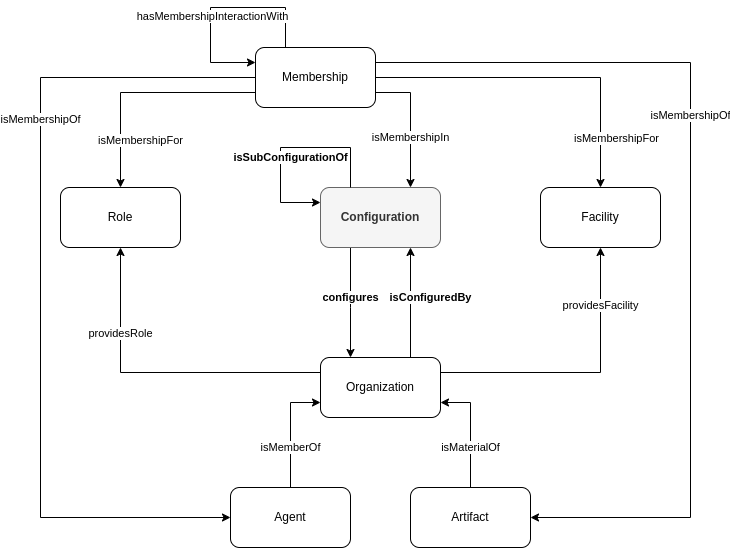
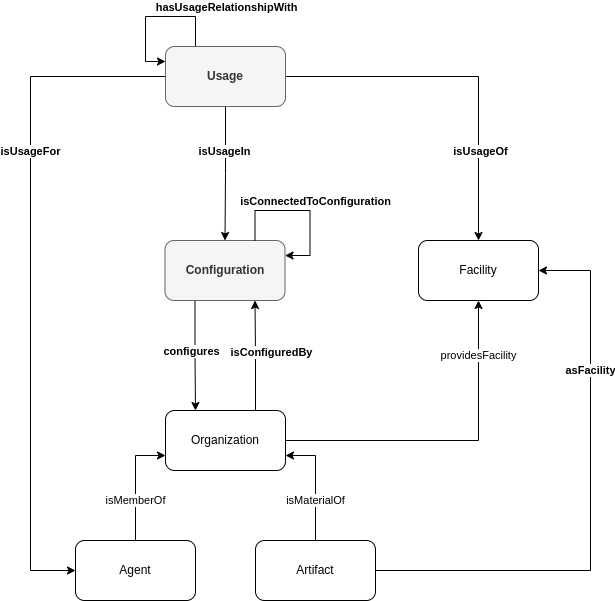
Update terms and README

diff --git a/domains/logistics/configure-organization/README.md b/domains/logistics/configure-organization/README.md
@@ -1,22 +1,34 @@
-# Configuring the Physical Context within an Organization
+# Configuring an Organization
 
 ## Description
 
-In the FL Logistics organization, activities take place on various depots. Those depots are located in France and in Switzerland. Complementing the job positions and departments that structure the FL Logistics organization, dedicated configurations on each of these depots enables the coordination and regulation of the activities of the organization members and materials. These configurations, in relation to the physical places where the activities of the organization take place, are complementary to the social structure of FL Logistics.
+In the FL Logistics organization, activities take place on various depots located in France and in Switzerland. In all depots, there are a _receiving_ area, a _storage_ area, and a _picking_ area.
 
-In France, the activities of the FL Logistics are organized around three physical workspaces: Lyon Depot, Saint-Etienne Depot and Transport Zone between both depots.
+In each _receiving_ area, there are available standard material handling equipment like forklifts and pallet jacks as well as barcode readers to gain maximum efficiency.
 
-In each configuration, agents will undertake activities according to their *memberships to* that *configuration* and to the artefacts through their memberships as *facilities* in that *configuration*.
+
+Complementing the job positions and departments that structure the FL Logistics, dedicated configurations arrange these physical organization workplaces where activities can be undertaken. 
+
+Artifacts situated in these 
+
+The usage of these configurations identifies the 
+
+usages enable identifying the possible uses of artifacts situated in these depots. These configurations, e.g., arrangement of the physical workplaces where activities of the organization can take place, are complementary to the social structure and activity coordination of the FL Logistics.
+
+In France, the FL Logistics' activities can take place in three physical workplaces: Lyon Depot, Saint-Etienne Depot and Transport Zone between both depots.
+
+In each configuration, agents can undertake their activities using the available facilities attached to artifacts.
 
 Two configurations are considered:
-* *picking* configuration with a *collector* role and a *picking area* facility
-* *receiving* configuration with a *deliverer* role and an *receiving area* facility
+
+* *picking* configuration with a *collector* usage and a *picking area* facility
+* *receiving* configuration with a *deliverer* usage and an *receiving area* facility
 
 The agents acting in the *lyon depot*, *saint-etienne depot* workspaces have to consider both depots according to those two configurations. In the Transport Zone the agents don't have to consider any configuration to further coordinate and regulate their activities.
 
-The agents having a membership in the *transporter* group use these configurations in the *lyon depot* and *saint-etienne depot* to help their coordination: when getting a membership in the *delivering* (resp. *picking*) configuration through the *deliverer* role (resp. *collector* role).
+The agents having a membership in the *transporter* group use these configurations in the *lyon depot* and *saint-etienne depot* to help their coordination: when committing to a usage in the *delivering* (resp. *picking*) configuration through the *deliverer* usage (resp. *collector* usage).
 
-In the same approach, the *delivering machine* and *picking machine* artifacts materials of FL logistics organization, operating in these workspaces, will be accessed through dedicated facilities of these configurations, providing selected set of actions to the agents: the *delivering machine* artifact is considered as an *receiving* area facility in the *receiving* configuration; the *picking machine* artifact is considered as an *picking area* facility in the *picking* configuration.
+In the same approach, the *delivering machine* and *picking machine* artifacts materials of FL logistics organization, operating in these workspaces, will be accessed through dedicated facilities of these configurations, providing selected set of actions to the agents: the *delivering machine* artifact is considered as an *receiving area* facility in the *receiving* configuration; the *picking machine* artifact is considered as an *picking area* facility in the *picking* configuration.
 
 Activities will take place according to the configurations that lead to picking, unpicking and transporting actions with different artifacts. Goods are collected using different facilities and are delivered with other facilities according to the plan elaborated by the agent having a membership of planner in the corresponding group.
 
@@ -24,24 +36,28 @@ Activities will take place according to the configurations that lead to picking,
 
 | ID | Question in Natural Language | Example |
 |----|------------------------------|---------|
-| q1 | What are the memberships that an agent of FL Logistics can have in configuration X? | `ex:SL_Collector in ex:SL_Picking, ex:SL_Deliverer in ex:SL_Receiving` |
-| q2 | What are the possible configurations of FL Logistics? | `ex:SL_Picking, ex:SL_Receiving` |
-| q3 | What are the facilities that artifacts can have in configuration X? | `ex:SL_PickingArea in ex:SL_Picking`, `ex:SL_ReceivingArea in ex:SL_Receiving` |
-| q4 | What are the agents that have a membership in the configuration X? | |
+| q1 | What are the usage that an agent A of organization X can have in configuration Y? | |
+| q2 | What are the possible configurations of organization X?                           | |
+| q3 | What are the facilities that artifacts X can have in configuration Y?             | |
+| q4 | What are the agents that are part of the usage Z in the configuration X?          | |
 
 ## Glossary
 
 ![image](configure-organization.png)
 
-* **Configuration**: A Configuration denotes the distributed articulation of facilities (i.e., Artifacts) and roles (i.e., Agents) enacted from the Configuration definition. Configurations may have interaction relations between them constraining the way agents can access to them (e.g. compatibility, i.e. being part of both configurations, ...).
-* **Membership**: see [Structure the Social Context within an Organization](https://github.com/HyperAgents/hmas/blob/master/domains/logistics/structure-organization/README.md) scenario.
+* **Usage**: A Usage identifies the Facilities associated to Artifacts that Agents can use in a Configuration.
+* **Usage Incompatibility**: A relation that imposes a constraint in which the same Agent cannot be part of two Usages simultaneously.
+* **Usage Constraint**: A relation that refers to a constrain imposed on the Usages, e.g., limiting the number of Agents participating in that Usage.
+* **Configuration**: A Configuration is an arrangement of elements (physical or logical) of an Organization.
+* **Configuration Connectedness**: A relation that refers how two Configurations are linked.
 * **Facility**: see [Create an Organization](https://github.com/HyperAgents/ns.hyperagents.org/blob/master/domains/logistics/create-organization/README.md) scenario.
-* **Role**: see [Create an Organization](https://github.com/HyperAgents/ns.hyperagents.org/blob/master/domains/logistics/create-organization/README.md) scenario.
 * **Organization**: see [Discover Organizations, their Members and Materials in Hypermedia Environments](https://github.com/HyperAgents/hmas/blob/master/domains/manufacturing-environments/discover-organization/README.md) scenario.
 * **Agent**: see [Discover Organizations, their Members and Materials in Hypermedia Environments](https://github.com/HyperAgents/hmas/blob/master/domains/manufacturing-environments/discover-organization/README.md) scenario.
 * **Artifact**: see [Discover Organizations, their Members and Materials in Hypermedia Environments](https://github.com/HyperAgents/hmas/blob/master/domains/manufacturing-environments/discover-organization/README.md) scenario.
 
 ## Recommendations
 
-* When spatial context is expressed as a condition, the condition is tested against the current situation and, if satisfied, activates the policy. The agent didn't make an explicit and intentional decision to realize the satisfaction of the context condition.
-* When spatial context is expressed as a configuration with memberships, the agent makes an explicit move or decision to acquire that specific membership. We are able to capture the explicit decision or commitment of the agent w.r.t. this membership.
+* https://www.jstor.org/stable/pdf/2563428.pdf?refreqid=fastly-default%3A1bf3cc6b0c876a22b471ab9a58a68da2&ab\_segments=&origin=&initiator=&acceptTC=1
+* In the OntoZoning ontology (https://pdf.sciencedirectassets.com/312220/1-s2.0-S2226585623X0003X/1-s2.0-S2226585623000067/main.pdf?X-Amz-Security-Token=IQoJb3JpZ2luX2VjEMn%2F%2F%2F%2F%2F%2F%2F%2F%2F%2FwEaCXVzLWVhc3QtMSJHMEUCIQD%2F0cOO8Ci1dle6bP1t%2FMdy4%2Bpe5poMgoopD9KLVOKZlgIgQN0XVkKb9wvSk14qb4EVsRb6ROOHGNHBgJGJqTKgfu4qswUIMhAFGgwwNTkwMDM1NDY4NjUiDIIWg3I77gLJsk%2F21SqQBa4FtRSZAPGt0FoJmh8yQAC7Qb9d3AzUs3YJLPgDtScksnYLFY5UQgZzD9OroSCSj7gnc2Ft0OvIXJmuwOmAyd9thOFTA9weqJICqwSzsZSd%2Fc6LxGMU655JstjmBKscftYvFd8nJx7sXgoEJ5wzjih3J3oYapBlVIGFeUB9%2F2N5zazM%2FDpS5jourS%2BNViRobzfF5kLEiQ2gTZeovELSb8gyGjIWk%2Bw0jtr5MGiUh6EZp8RsMFuXDpLGAhLK7oRljl7ALkORfG4KjFjY5QLcoYyA42rLM75sGhD4znEBmUTvdr7%2BWdr16WUZYFmumV2L97oo8u5kvVw9FfKOjfcSqAC7TVsP20%2FshubhiH1pLyEkM4gaWXrax1OF1LiThKVUYUuV5nFDG0DUedPZHtuWxhj%2F%2FQe2tT066GJXUPcVesocDdXPwlOaHmRrxyPIDU1bqwSnPsYqIifxPspvZfRQJYZjNfcQxURY03jK50GkE8ymPiVSq%2BbRvugLZ5qtGqVKpSWaZvMuDaNafK2eIK%2FC5EVEnLAYUxllglOiCHiDKxX4Y175vGSJ5jDG9Wfy696ntm082iXtFpi4Nby%2FJ3x9kzIhbq9sIGCot7y8HtiaeuG5ay0UTmgeOuCHYOC2sZRD%2BWfJGQWlZaVz789UWLnzzfckhPulm8isYToRUtyuUSrem3D6NfTmRBXZrf8wsSmC1SLYFsvYMls56tXMdl2GXGyOWSGDUtgCRzxkbjQRcXg0YA4NsBHVpp68GbkhD499AITOBjwRS40mjDdI6hhcL7WSInfH76H3AoObYW2%2Fsc6g4OoRGVW4sKtj%2FRvbF4bCZzEF8m4Z%2FhLnmqobf4FKhMYuUg8zIiflI05DVxR4ArMNMJm2rasGOrEBHs1ckoRfpYQ%2BKnxKGjf7HFGJOnn6Njzd7Du71UJ%2FMRwgF98xsrw8ktkjnLONhsY0cfjtkPkV5Gh453Ywg8xTJD%2BIZNQQpEZW479lorH8y1r8XWFhawHdnjDufnFn0mCGhS3oCnC%2FCA24E6A1KEebuk3ige4YNPB455FUeXjiCTxZYj3bfNqjkBbYBHnkUdIKCC9IuWE%2BSdsOOxYaogpDNTKoTxUluFBzsqa2IC%2FiY%2BXL&X-Amz-Algorithm=AWS4-HMAC-SHA256&X-Amz-Date=20231202T165011Z&X-Amz-SignedHeaders=host&X-Amz-Expires=300&X-Amz-Credential=ASIAQ3PHCVTYSOMH3THG%2F20231202%2Fus-east-1%2Fs3%2Faws4\_request&X-Amz-Signature=cc3679c26353699d369beba87b57856ecb2f272315a10967be78fea065616090&hash=c2d10e1950ff4bf5ea88d0a505d35a055c7b89b4fb0e6df8700dbbf8cea13091&host=68042c943591013ac2b2430a89b270f6af2c76d8dfd086a07176afe7c76c2c61&pii=S2226585623000067&tid=spdf-fedd5843-00fd-4a6c-8cb8-467b6d73b38a&sid=1d4d608a37af8745d508f165995130d0d4b8gxrqb&type=client&tsoh=d3d3LnNjaWVuY2VkaXJlY3QuY29t&ua=1c145b530854555556520a&rr=82f51140ea9a03fd&cc=fr) use of other terms *Zoning*, *Land use*, *Programme*
+* The Configuration (better named Workspace Configuration) is targeting the regulation of the use or workspace by agents in a hmas application. That is to say: the regulation of accessing/using artifacts through their signifiers (abstracted as facilities). This workspace configuration should be complemented at some point with `landmarks` with geospatial coordinate properties, regulating the places agents can be situated at. OLD ToBeSuppressed: When spatial context is expressed as a condition, the condition is tested against the current situation and, if satisfied, activates the policy. The agent didn't make an explicit and intentional decision to realize the satisfaction of the context condition.
+* OLD ToBeSuppressed: When spatial context is expressed as a configuration with memberships, the agent makes an explicit move or decision to acquire that specific membership. We are able to capture the explicit decision or commitment of the agent w.r.t. this membership.
